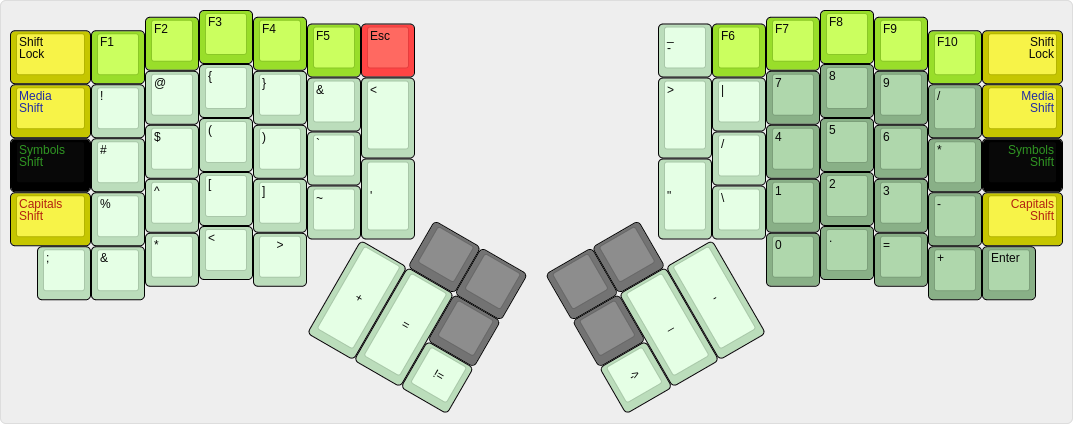
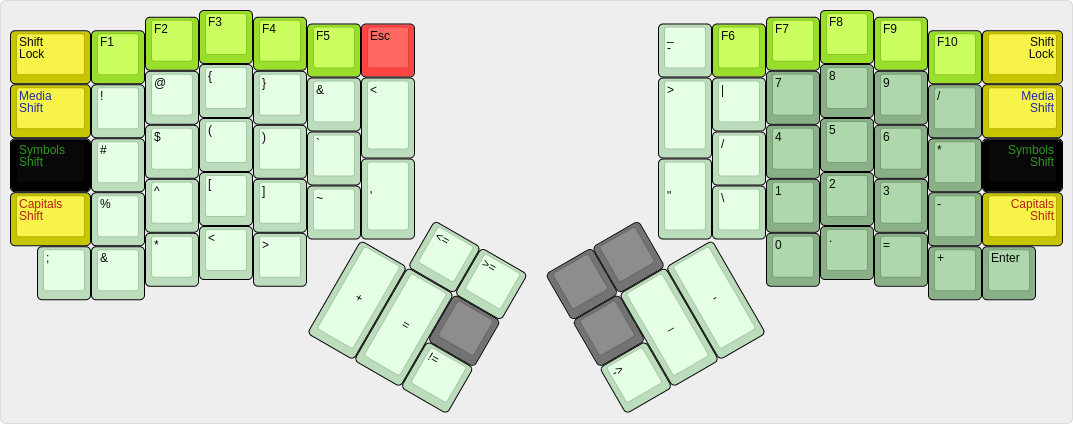
The Ordinary Layout is the best one, the one you are looking for. Really. Check it out.

Changed region(s): [[0.3691, 0.5212, 0.4921, 0.7665]]

diff --git a/keyboards/ergodox/keymaps/ordinary/keymap.c b/keyboards/ergodox/keymaps/ordinary/keymap.c
@@ -19,7 +19,9 @@
 #define RSpec 15 // right special-shift key
 
 #define NotEq 16 // != macro
-#define Point 17 // -> macro
+#define GrtEq 17 // >= macro
+#define LesEq 18 // <= macro
+#define DeRef 19 // -> macro
 
 #define MUL   20 // mouse up left
 #define MUR   21 // mouse up right
@@ -71,7 +73,7 @@ const uint16_t PROGMEM keymaps[][MATRIX_ROWS][MATRIX_COLS] = {
 ,F(LMdia)  ,KC_Q           ,KC_W   ,KC_E   ,KC_R  ,KC_T  ,KC_LBRC
 ,M(LSymb)  ,LT(RBASE, KC_A),KC_S   ,KC_D   ,LT(RBASE, KC_F)  ,KC_G
 ,KC_LSFT   ,KC_Z           ,KC_X   ,KC_C   ,KC_V  ,KC_B  ,LSFT(KC_TAB)
-,KC_SCLN   ,MEH_T(KC_NO)   ,ALL_T(KC_NO),KC_LALT,KC_LGUI
+,KC_LCTL   ,MEH_T(KC_NO)   ,ALL_T(KC_NO),KC_LALT,KC_LGUI
                                          ,KC_HOME,KC_END
                                                  ,KC_PGUP
                                  ,KC_BSPC,KC_DEL ,KC_PGDN
@@ -100,9 +102,9 @@ const uint16_t PROGMEM keymaps[][MATRIX_ROWS][MATRIX_COLS] = {
  *     |   ;   |   &  |   *  |   <  |   >  |                                   |   0  |   .  |   =  |   +  | Enter |
  *     `-----------------------------------'                                   `-----------------------------------'
  *                                         ,-------------.       ,-------------.
- *                                         |||||||||||||||       |||||||||||||||
+ *                                         | |||| | |||| |       | |||| | |||| |
  *                                  ,------|------|------|       |------+------+------.
- *                                  | Plus | Equal||||||||       |||||||| Under| Dash |
+ *                                  | Plus | Equal| |||| |       | |||| | Under| Dash |
  *                                  |      |      |------|       |------| Score|      |
  *                                  |  +   |   =  |  !=  |       |  ->  |  _   |  -   |
  *                                  `--------------------'       `--------------------'
@@ -113,8 +115,8 @@ const uint16_t PROGMEM keymaps[][MATRIX_ROWS][MATRIX_COLS] = {
 ,KC_TRNS ,KC_EXLM     ,KC_AT        ,KC_LCBR ,KC_RCBR ,KC_AMPR ,LSFT(KC_COMM)
 ,KC_TRNS ,KC_HASH     ,KC_DLR       ,KC_LPRN ,KC_RPRN ,KC_GRV
 ,KC_TRNS ,KC_PERC     ,KC_CIRC      ,KC_LBRC ,KC_RBRC ,KC_TILD ,KC_TAB
-,KC_LCTL ,KC_AMPR     ,KC_ASTR ,LSFT(KC_COMM),LSFT(KC_DOT)
-                                                      ,KC_NO   ,KC_NO
+,KC_SCLN ,KC_AMPR     ,KC_ASTR ,LSFT(KC_COMM),LSFT(KC_DOT)
+                                                      ,M(GrtEq),M(LesEq)
                                                                ,KC_NO
                                              ,KC_PLUS ,KC_EQL  ,M(NotEq)
                                                                  // right hand
@@ -125,21 +127,21 @@ const uint16_t PROGMEM keymaps[][MATRIX_ROWS][MATRIX_COLS] = {
                                                                                             ,KC_0  ,KC_DOT ,KC_EQL,KC_PLUS ,KC_ENT
                                                                  ,KC_NO       ,KC_NO
                                                                  ,KC_NO
-                                                                 ,M(Point)    ,LSFT(KC_MINS),KC_MINS
+                                                                 ,M(DeRef)    ,LSFT(KC_MINS),KC_MINS
 ),
 
 /******* Media Layer *******************************************************************************************************
  *
  * ,---------------------------------------------------------------.    ,---------------------------------------------------------------.
- * |      |   F11   |   F12   |   F13   |   F14   |   F15   | Esc  |    |      |   F16   |   F17   |   F18   |   F19   |   F20   |      |
+ * |      |   F11   |   F12   |   F13   |   F14   |   F15   | Esc  |    | |||| |   F16   |   F17   |   F18   |   F19   |   F20   |      |
  * |------+---------+---------+---------+---------+----------------|    |------+---------+---------+---------+---------+---------+------|
  * |      |Shut Down|MouseUpLf|Mouse Up |MouseUpRg|Volume Up|Scroll|    |Scroll|PrintScrn|   Home  |    Up   |   PgUp  |   Mail  |      |
  * |------+---------+---------+---------+---------+---------|  Up  |    |  Up  |---------+---------+---------+---------+---------+------|
  * |      |  Sleep  |MouseLeft|MouseDown|MouseRght|Volume Dn|------|    |------| Num Lock|   Left  |   Down  |   Right | MyComp  |      |
  * |------+---------+---------+---------+---------+---------|Scroll|    |Scroll|---------+---------+---------+---------+---------+------|
- * |      |         |MouseDnLf|MouseDown|MouseDnRg|  Mute   | Down |    | Down |         |   End   |   Down  |   PgDn  |         |      |
+ * |      |  ||||   |MouseDnLf|MouseDown|MouseDnRg|  Mute   | Down |    | Down |  ||||   |   End   |   Down  |   PgDn  |  ||||   |      |
  * `------+---------+---------+---------+---------+----------------'    `----------------+---------+---------+---------+---------+------'
- *  |     |         |  MClick | LClick  |  R Click|                                      |  Insert |   Del   |         |         |     |
+ *  | ||| |  ||||   |  MClick | LClick  |  R Click|                                      |  Insert |   Del   |   ||||  |  ||||   | ||| |
  *  `---------------------------------------------'                                      `---------------------------------------------'
  *                                                   ,-------------.    ,-------------.
  *                                                   | Stop |Refrsh|    | Prev | Next |
@@ -219,7 +221,7 @@ const uint16_t PROGMEM keymaps[][MATRIX_ROWS][MATRIX_COLS] = {
  * |------------+------+------+------+------+-------------|       |------+------+------+------+------+------+------------|
  * |    \|      |   P  |   O  |   I  |   U  |   Y  |   ]  |       |  [   |   T  |   R  |   E  |   W  |   Q  |    Tab     |
  * |------------+------+------+------+------+------|      |       |      |------+------+------+------+------+------------|
- * |            |   ;  |   L  |   K  |   J  |   H  |------|       |------|   G  |   F  |   D  |   S  |  A   |    '"      |
+ * |    '"      |   ;  |   L  |   K  |   J  |   H  |------|       |------|   G  |   F  |   D  |   S  |  A   |            |
  * |------------+------+------+------+------+------| Tab  |       |Shift |------+------+------+------+------+------------|
  * | Capitals   |   /  |   .  |   ,  |   M  |   N  |      |       | -Tab |   B  |   V  |   C  |   X  |  Z   |   Capitals |
  * `------------+------+------+------+------+-------------'       `-------------+------+------+------+------+------------'
@@ -237,7 +239,7 @@ const uint16_t PROGMEM keymaps[][MATRIX_ROWS][MATRIX_COLS] = {
 // left hand
  KC_EQL    ,KC_0        ,KC_9   ,KC_8   ,KC_7  ,KC_6  ,KC_MINS
 ,KC_BSLS   ,KC_P        ,KC_O   ,KC_I   ,KC_U  ,KC_Y  ,KC_RBRC
-,KC_NO     ,LT(RBASE, KC_SCLN)     ,KC_L   ,KC_K   ,LT(RBASE, KC_J)  ,KC_H
+,KC_QUOT     ,LT(RBASE, KC_SCLN)     ,KC_L   ,KC_K   ,LT(RBASE, KC_J)  ,KC_H
 ,KC_RSFT   ,KC_SLSH     ,KC_DOT ,KC_COMM,KC_M  ,KC_N  ,KC_TAB
 ,KC_RCTL   ,MEH_T(KC_NO),ALL_T(KC_NO),KC_RALT,KC_RGUI
                                              ,KC_LEFT ,KC_RGHT
@@ -246,7 +248,7 @@ const uint16_t PROGMEM keymaps[][MATRIX_ROWS][MATRIX_COLS] = {
                                                                   // right hand
                                                                  ,KC_ESC      ,KC_5   ,KC_4   ,KC_3   ,KC_2    ,KC_1  ,KC_GRV
                                                                  ,KC_LBRC     ,KC_T   ,KC_R   ,KC_E   ,KC_W    ,KC_Q  ,KC_TAB
-                                                                              ,KC_G   ,LT(RBASE, KC_F),KC_D   ,KC_S   ,LT(RBASE, KC_A)  ,F(LSymb)
+                                                                              ,KC_G   ,LT(RBASE, KC_F),KC_D   ,KC_S   ,LT(RBASE, KC_A)  ,KC_NO
                                                                  ,LSFT(KC_TAB),KC_B   ,KC_V   ,KC_C   ,KC_X    ,KC_Z  ,KC_LSFT
                                                                                       ,KC_LGUI,KC_LALT,KC_HYPR ,KC_MEH,KC_LCTL
                                                                  ,KC_HOME     ,KC_END
@@ -390,13 +392,25 @@ const macro_t *action_get_macro(keyrecord_t *record, uint8_t id, uint8_t opt)
 
         case NotEq:
         if (record->event.pressed) {
-            return MACRO( I(30), T(EXLM), T(EQL), END  ); //
+            return MACRO( I(10), D(LSFT), T(EXLM), U(LSFT), T(EQL), END  ); // !=
         }
         break;
 
-        case Point:
+        case GrtEq:
         if (record->event.pressed) {
-            return MACRO( I(30), T(MINS), T(DOT), END  ); //
+            return MACRO( I(10), D(LSFT), T(COMM), U(LSFT), T(EQL), END  ); // <=
+        }
+        break;
+
+        case LesEq:
+        if (record->event.pressed) {
+            return MACRO( I(10), D(LSFT), T(DOT), U(LSFT), T(EQL), END  ); // >=
+        }
+        break;
+
+        case DeRef:
+        if (record->event.pressed) {
+            return MACRO( I(10), T(MINS), D(LSFT), T(DOT), U(LSFT), END  ); // ->
         }
         break;
 

diff --git a/keyboards/ergodox/keymaps/ordinary/readme.md b/keyboards/ergodox/keymaps/ordinary/readme.md
@@ -10,13 +10,13 @@ no rights reserved, use for any purposes, credit me if you are a nice person
 
 ## The Base Layout ##
 
-* *White Keys* are all the normal characters and symbols in all the normal locations (except for the brackets).
-* *Modifier Keys* are light yellow and in the traditional locationn at the bottom of the keyboard: Control, Option, Command, plus Hyper and Meh.
-* *Shift Keys* are dark yellow, found on the outsides of the keyboard. Capitals Shift (traditional shift) is found in the usual place and above that is found Symbol Shift, Media Shift, and Special Shift (Shift Lock).
+* *White Keys* are all the normal characters and symbols in all the normal locations (except for the brackets, and who touch-types brackets?).
+* *Modifier Keys* are light yellow and in the traditional locationn at the bottom of the keyboard: Control, Option, Command, plus Hyper and Meh. Modifier keys are only found on the base layout.
+* *Shift Keys* are dark yellow, found on the outsides of the keyboard. Capitals Shift (traditional Shift) is found in the usual place and above that are Symbol Shift, Media Shift, and Special Shift (Shift Lock).
 * Several of the shift keys double for entry of characters which would typically be in those locations.
 * *Thumb Keys* shown in orange are for text navigation and manipulation.
 * The keys under pinky fingers and index fingers will *reverse* the keyboard layout.
-* *Escape* is red and it is always found in that location no matter what.
+* *Escape* is red and it is always found in that location (*except* when the layout is reversed).
 
 ![Ordinary base layout](ordinary-base.png)
 
@@ -26,18 +26,18 @@ The Forward Tab and Backward Tab keys are in their locations mostly because I en
 
 #### Reversing The Base Layout ####
 
-The Ordinary Layout can be used to perform one-handed chorded text input. If you hold down the key under either index finger or either pinky finger (A, F, J and Semicolon), the whole base layout reverses order. Most keys are _mirrored_ but the delete keys are merely *translated* to preserve directionality. Pro-tip: This feature is particularly handly for bringing the Enter key to the left hand when the right hand is using the mouse.
+The Ordinary Layout can be used to perform one-handed chorded text input. If you hold down the key under either index finger or either pinky finger (A, F, J and Semicolon), the whole base layout reverses order. Most keys are _mirrored_ but the delete keys, home/end, and left/right arrow keys are merely *translated* to preserve directionality. Pro-tip: This feature is particularly handly for bringing the Enter key to the left hand when the right hand is using the mouse.
 
 ## The Symbols Layer ##
 
 * *Symbols* shown in light green. All kinds of brackets are available on this layer. Ampersand and Pipe justapose each other. Pipe, slash, and backslash are arranged in a column.
 * *F-Keys* are bright green and overlay the row of numerals. This layer has F1-F10, higher *F-Keys* are on the Symbols layer.
 * *Number pad* in dark green under the right hand includes all four arithmetic operations in the same order found on most number pads and features an Enter key. The keycodes emitted here are normal numeric keycodes, not the number-pad specific keycodes emitted by most number pads so that NumLock is not needed.
+* The dark gray keys do nothing in case you bump them by accident.
 
 ![Ordinary symbol layout](ordinary-symbol.png)
 
 The Symbols Layer is based on the Coder Layer from the default Ergodox EZ layout. I slightly rearranged the symbols, added some symbols, expanded the number pad, and straightened out the F-Keys. It's very handy to have the symbols directly underneath the normal typing keys.
-* The dark gray keys do nothing in case you bump them by accident.
 
 ## The Media Layer ##
 
@@ -85,7 +85,7 @@ The Escape and Backspace special sequences are so useful why not have a few more
 
 ## Errata ##
 
-Some of the symbols on the Symbols layer are produced by the keyboard by "capitalizing" another symbol (such as *!* from *1*) so when you type that key you will notice the Capitals Shift red LED turn on.
+Some of the symbols on the Symbols layer are produced by the keyboard by "capitalizing" another character (such as *!* from *1*) so when you type that key you will notice the Capitals Shift red LED turn on.
 
 ****
 
